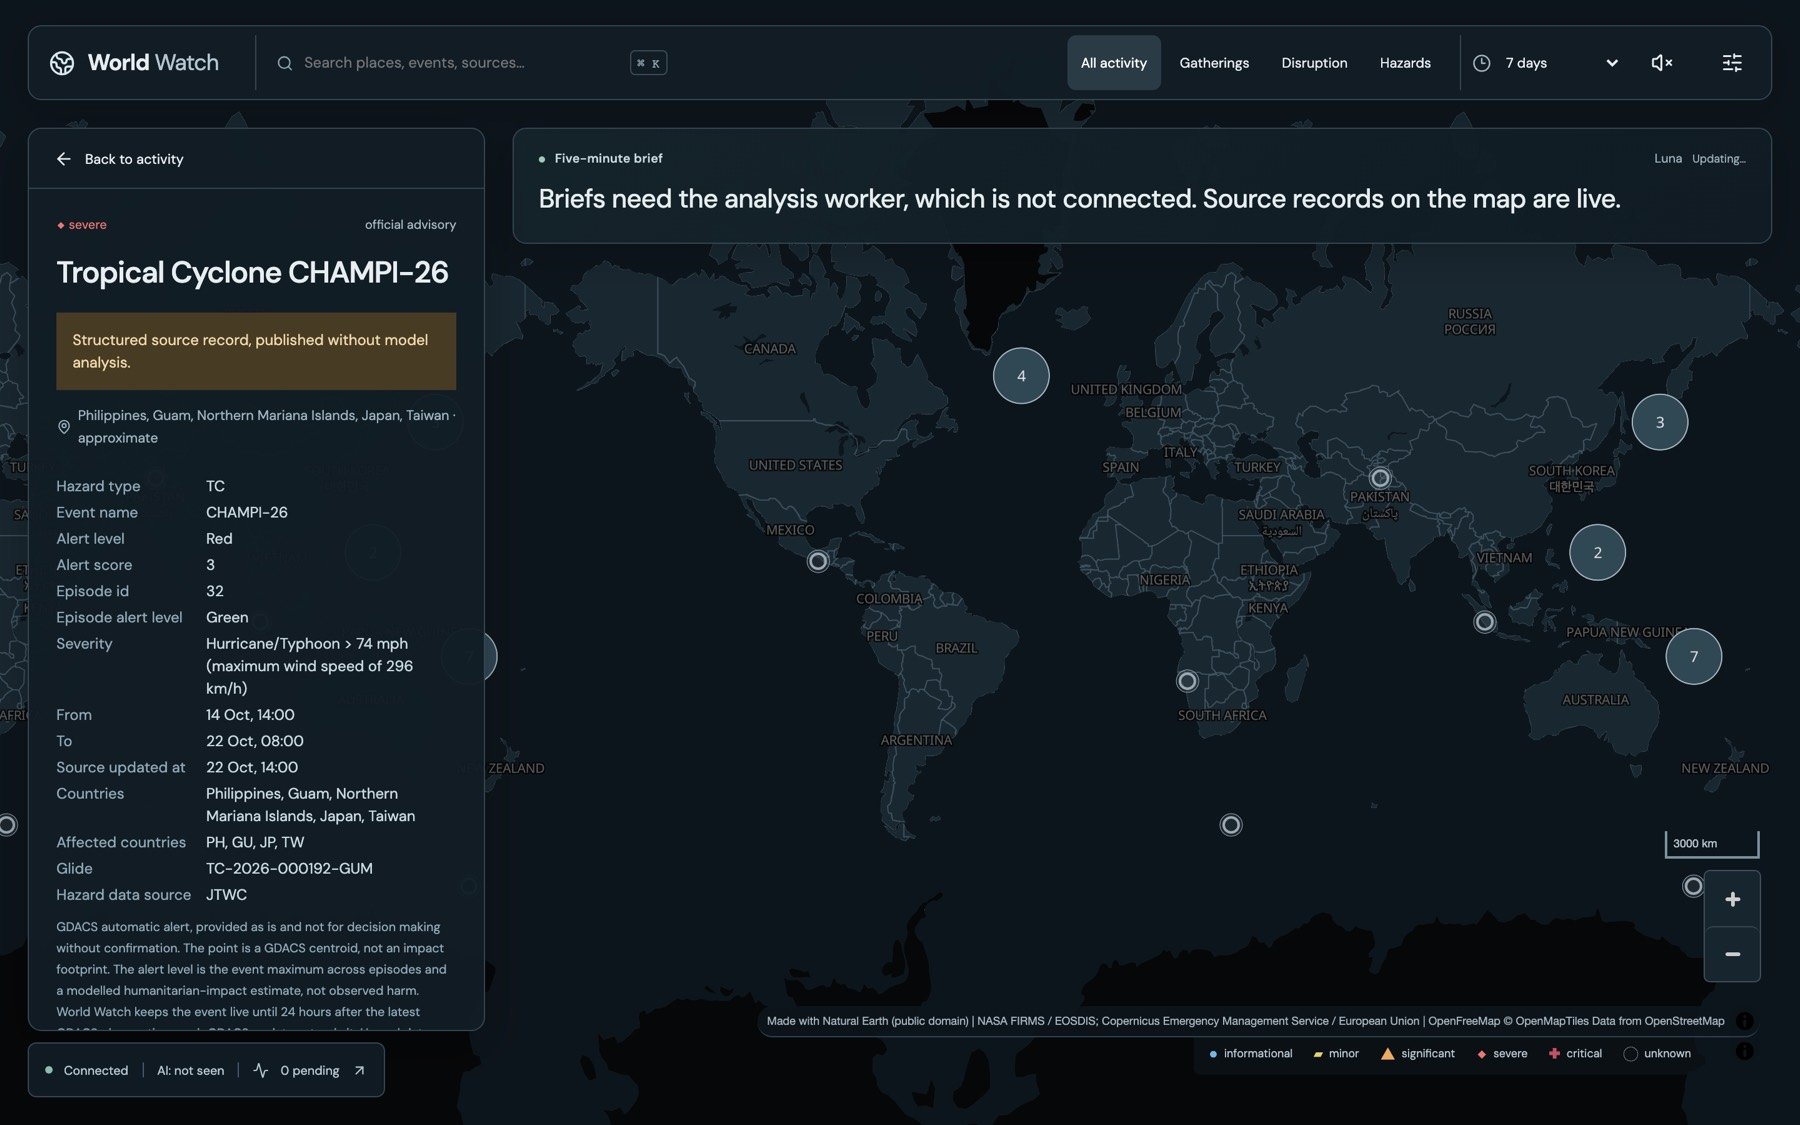
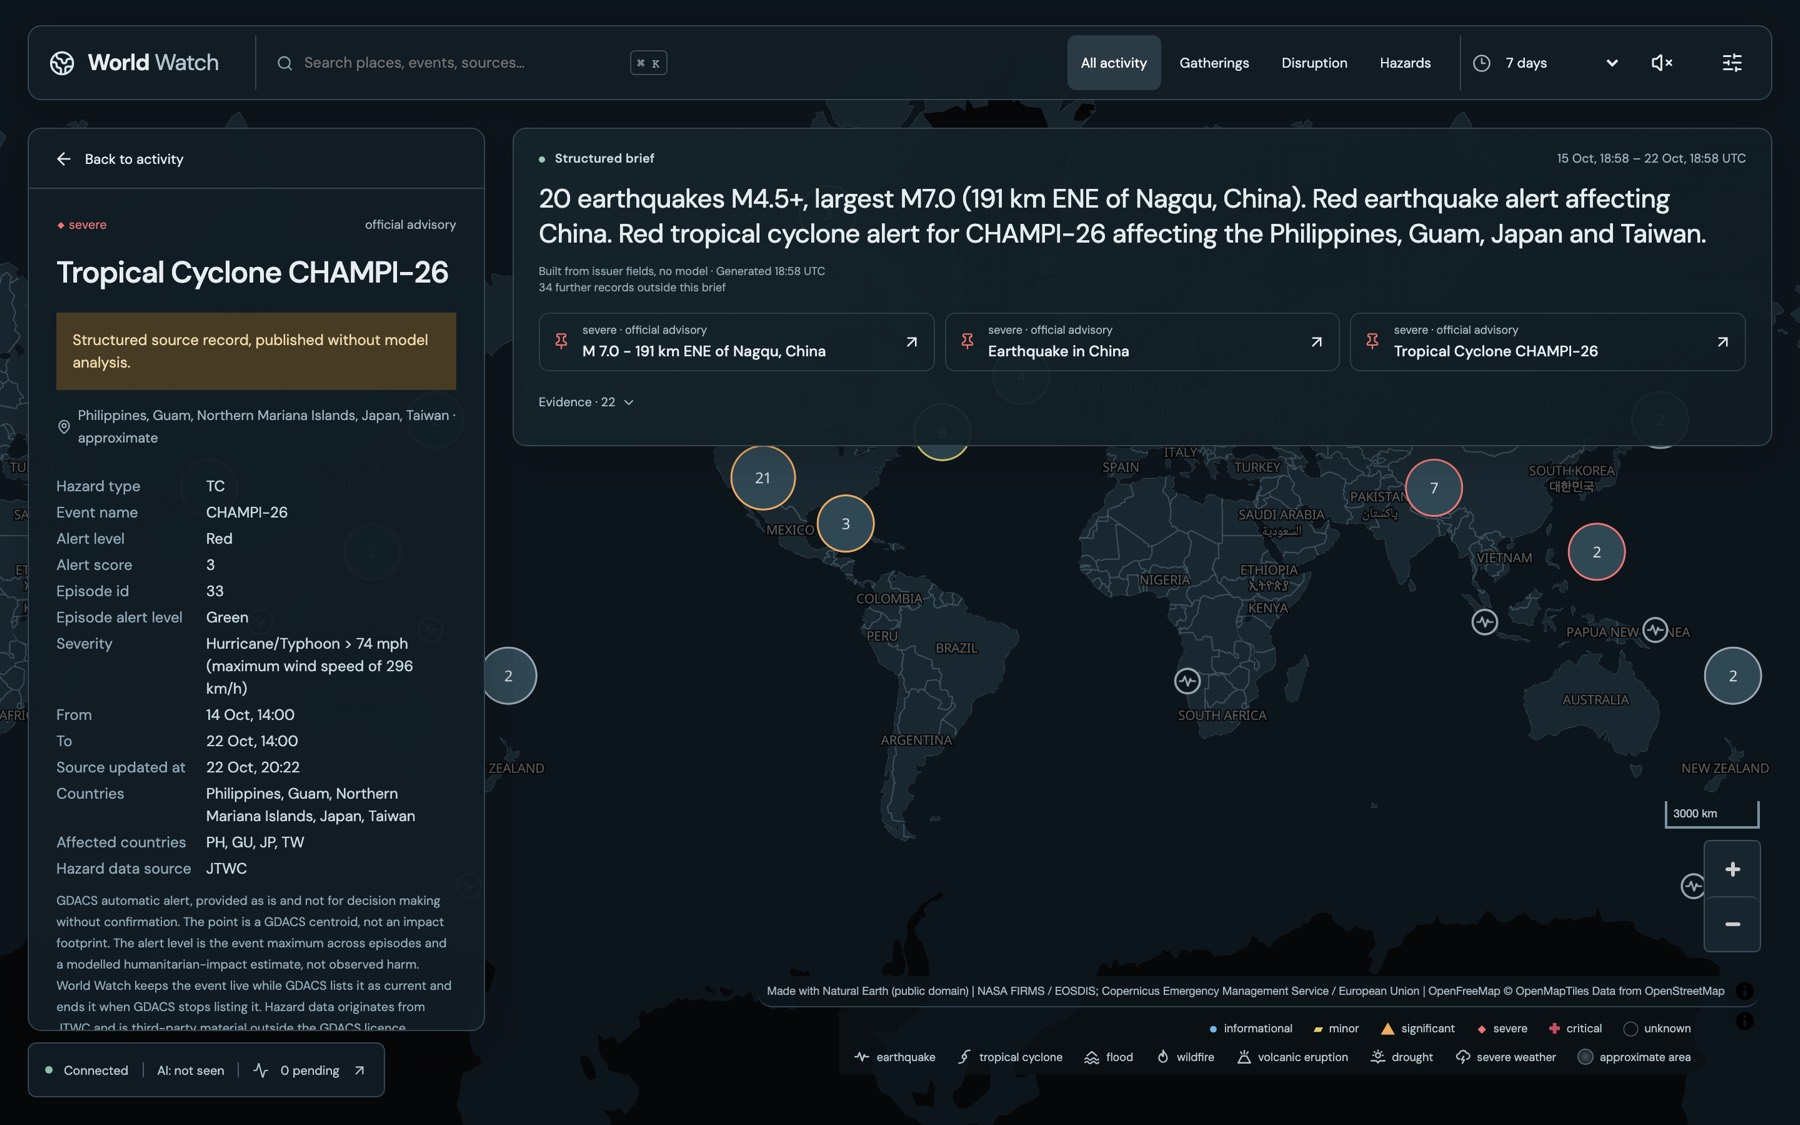
Refresh README screenshots and figures from the integrated demo
Screenshots now show hazard glyphs, NWS and Environment Canada
warnings, the structured brief and balanced thermal detections, from a
live run on the evening of 22 October 2026.

diff --git a/README.md b/README.md
@@ -19,7 +19,7 @@ npm run demo
 
 The demo starts a throwaway local server and database, pulls the live USGS, GDACS, NWS and ECCC feeds and opens a signed-in view at `http://127.0.0.1:4319/?hours=168`. It refreshes every five minutes. It makes its own random tokens and config in a temporary directory. It doesn't read your private files or call a model. Ctrl-C stops the demo's processes and deletes its data.
 
-On 22 October 2026 a run published 21 earthquakes of magnitude 4.5 or more, from Vanuatu and the Kuril Islands to the Reykjanes Ridge and Namibia. It also published Red Typhoon CHAMPI-26, affecting the Philippines, Guam, Japan and Taiwan. Turning on the thermal layer loaded 123,015 detections from the last 24 hours across NOAA-20, NOAA-21 and Suomi NPP.
+On the evening of 22 October 2026 a run published 56 incidents. They included 21 earthquakes, among them an M7.0 quake 191 km east-northeast of Nagqu in China. GDACS issued a Red earthquake alert for China and a Red alert for Typhoon CHAMPI-26 affecting the Philippines, Guam, Japan and Taiwan. The other 34 were NWS and Environment Canada flood and storm warnings, including a blizzard warning for Resolute. The structured brief summed it up from issuer fields alone, and turning on the thermal layer loaded 196,952 detections from the last 24 hours across NOAA-20, NOAA-21 and Suomi NPP.
 
 ![Thermal detections from three satellites across every continent, with Copernicus mapping areas listed](docs/media/thermal.jpg)
 
